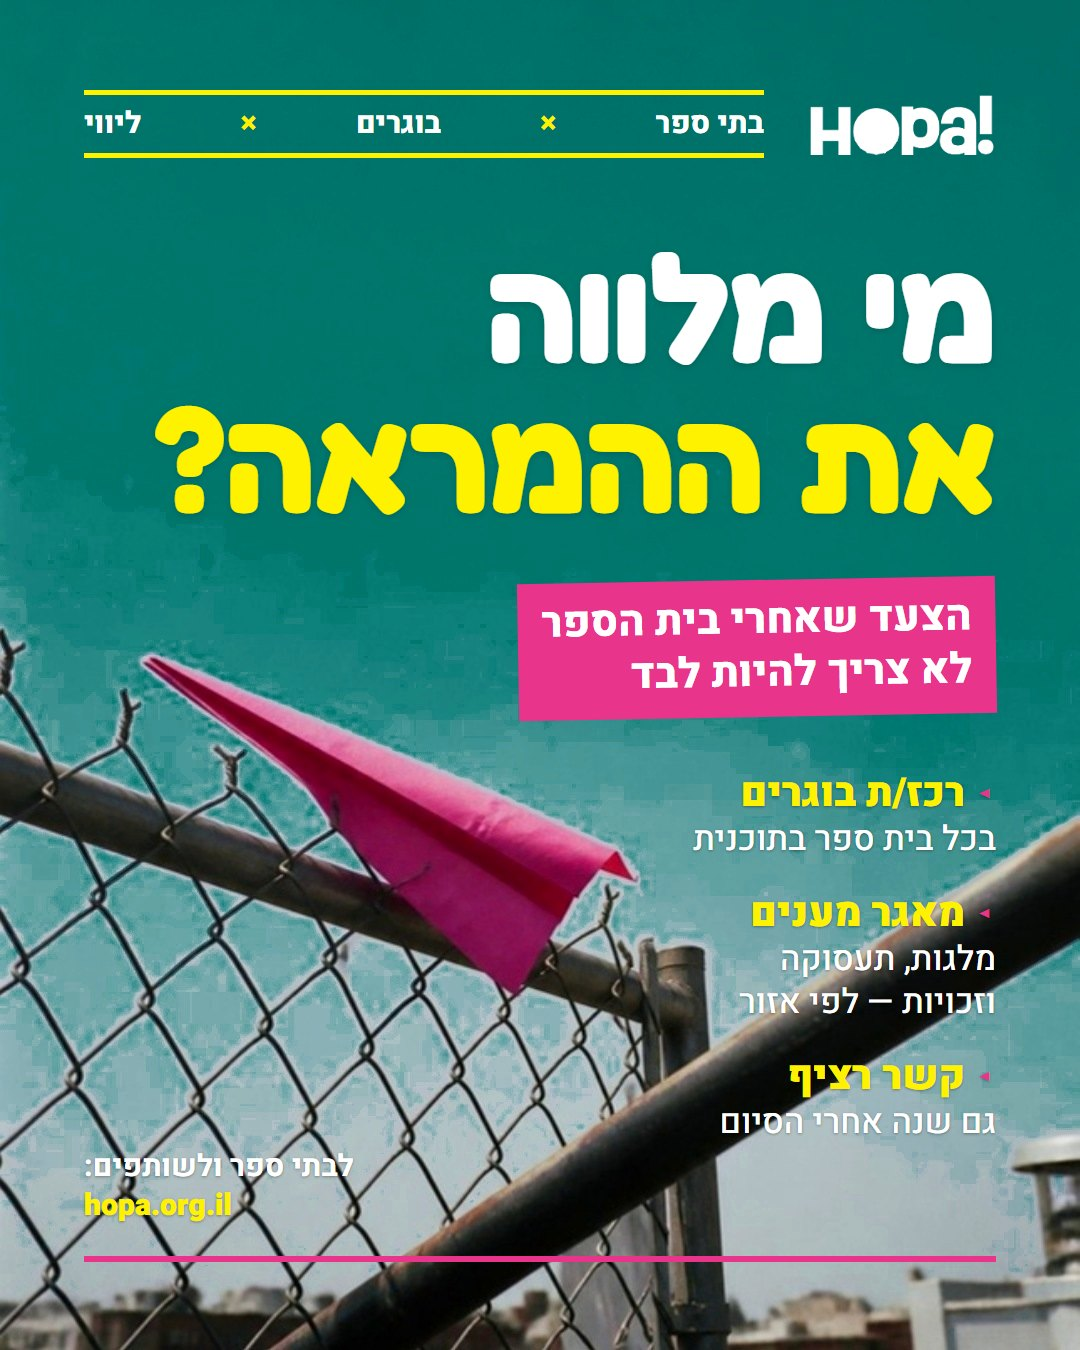
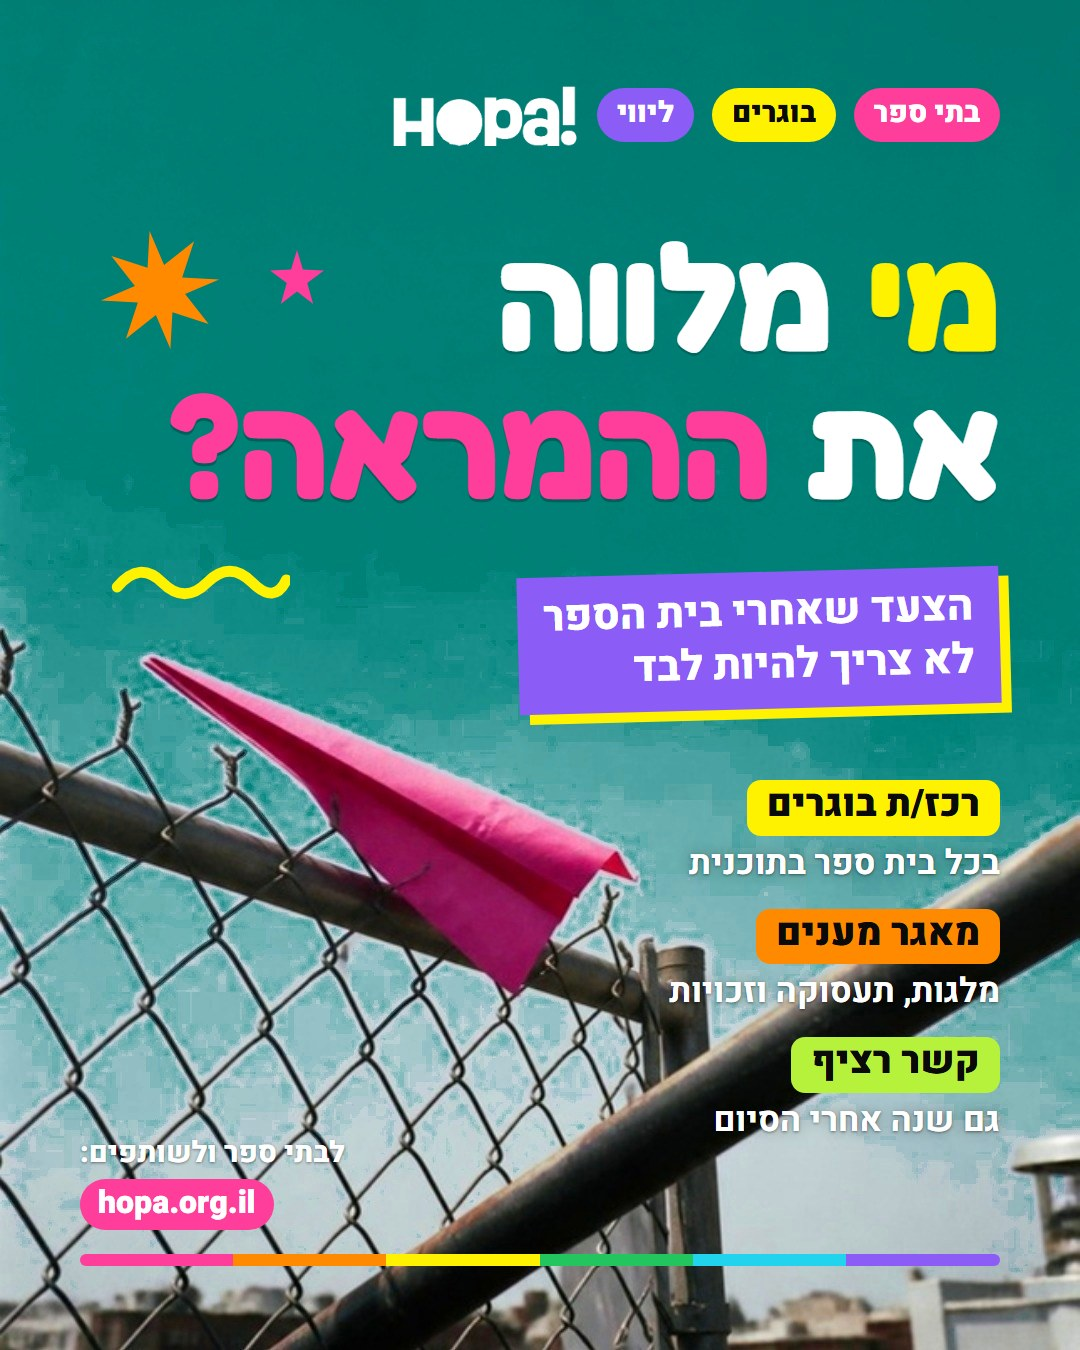
ishur-posts: סדרת הפייסבוק בגרסה צבעונית במיוחד (סגול/ירוק/כתום/טורקיז + מדבקות)

diff --git a/ishur-posts.html b/ishur-posts.html
@@ -118,7 +118,7 @@ var KEY='ishur-posts-';
 var ADMIN='hopa';
 
 var SECTIONS=[
-  {t:'סדרה א׳ · בהשראת גראז׳ — לפייסבוק',d:'פונה למנהלים, לבתי ספר ולשותפים. כל פוסט צבעוני — צבע רקע משלו ושני צבעי הדגשה. תמונה בודדת.',items:[
+  {t:'סדרה א׳ · בהשראת גראז׳ — לפייסבוק',d:'פונה למנהלים, לבתי ספר ולשותפים. צבעוני במיוחד — סגול, ירוק, כתום, טורקיז, ורוד וצהוב בתוך כל פוסט. תמונה בודדת.',items:[
     {id:'g1',t:'המפתח לשנה שאחרי',imgs:['fb-1-hamafteach']},
     {id:'g2',t:'מי מלווה את ההמראה?',imgs:['fb-2-hamraa']},
     {id:'g3',t:'יש להם כתובת',imgs:['fb-3-yesh-lahem-ktovet']},
@@ -196,7 +196,7 @@ function render(){
       var it=D.items[p.id]||{};
       html+='<div class="card'+(it.s?' st-'+it.s:'')+'" data-card="'+p.id+'">'+
         '<h3>'+esc(p.t)+(p.imgs.length>1?'<small>קרוסלה · '+p.imgs.length+' תמונות</small>':'')+'</h3>'+
-        '<div class="imgs'+(p.imgs.length>1?' multi':'')+'">'+p.imgs.map(function(n){return '<img loading="lazy" src="ishur/'+n+'.jpg" alt="">'}).join('')+'</div>'+
+        '<div class="imgs'+(p.imgs.length>1?' multi':'')+'">'+p.imgs.map(function(n){return '<img loading="lazy" src="ishur/'+n+'.jpg?v=3" alt="">'}).join('')+'</div>'+
         (p.imgs.length>1?'<div class="swipe">← החליקו לתמונות הבאות</div>':'')+
         (p.cap?'<details class="cap"><summary>📝 הטקסט לפוסט</summary><div>'+esc(p.cap)+'</div></details>':'')+
         '<div class="sts" data-id="'+p.id+'">'+
